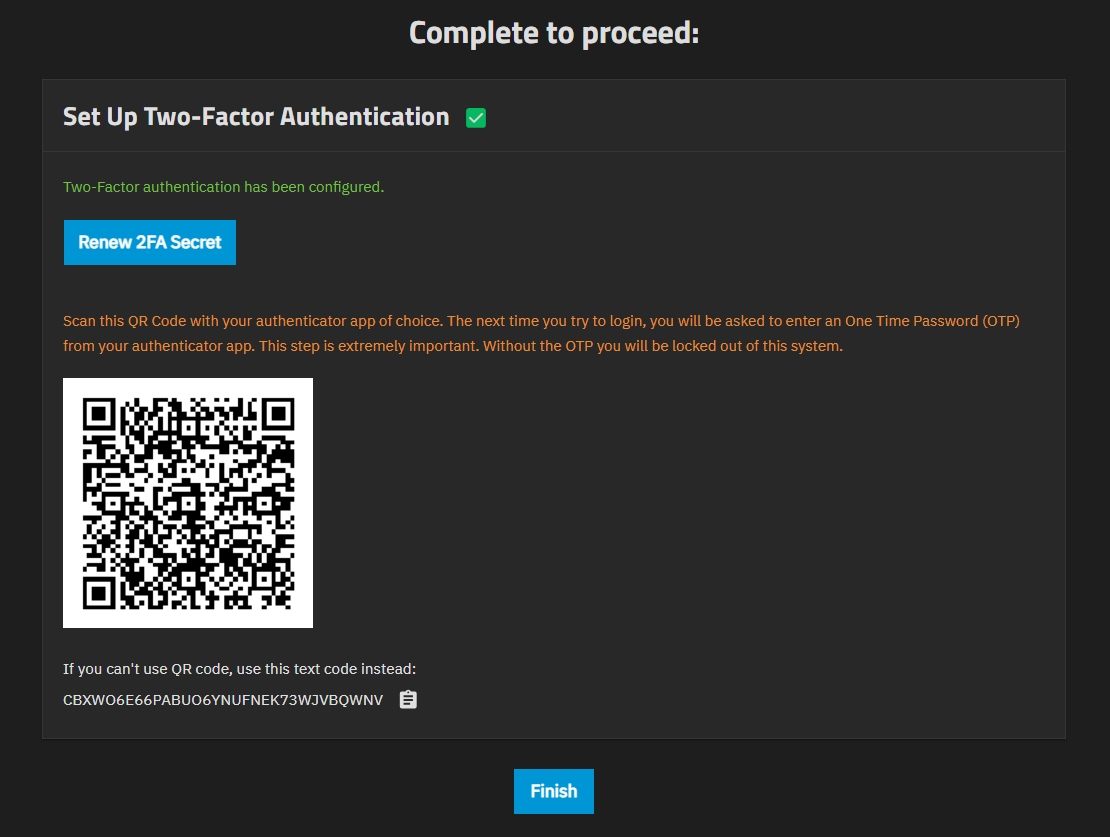
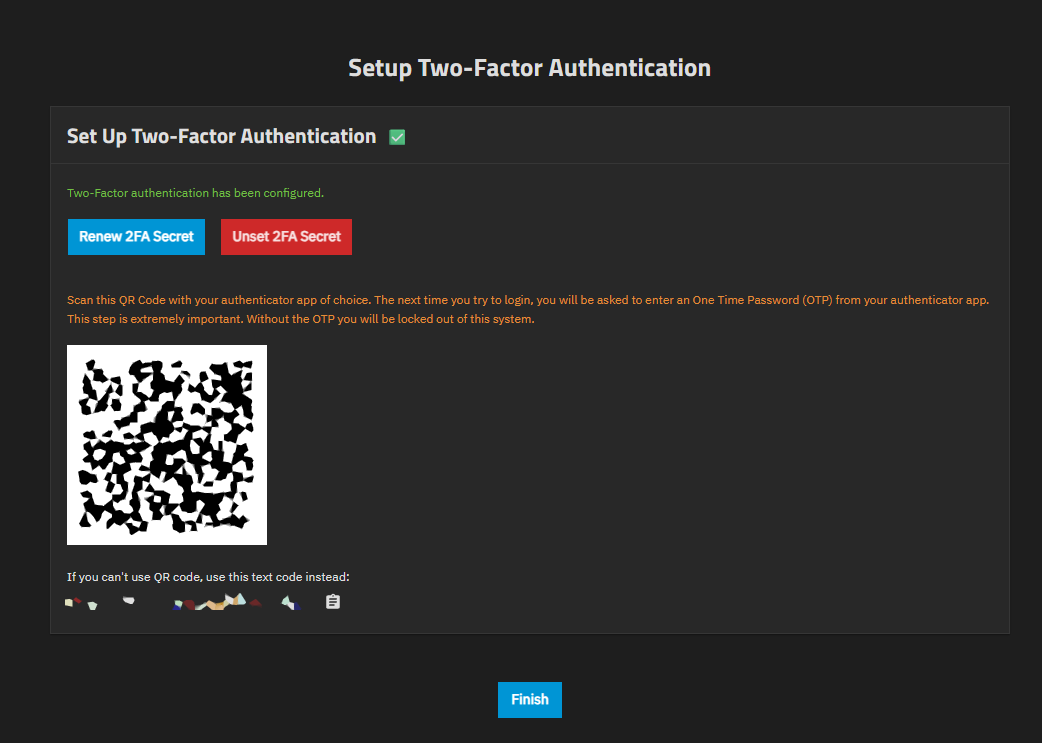
PD-2433 / 25.10 / Pd 2433 update 2 fa content for behavioral changes (#4330)
* Update ManageGlobal2FASCALE.md

* Update AdvancedSettingsScreen.md

* Update 2FAScreenSCALE.md

* Update 2FAScreenEnabled.png

* Update SetUpTwoFactorAuthenticationScreen.png

* Update 2FAScreenSCALE.md

* Delete 2FAQRCodeDialog.png

* Delete 2FAScreenDisabled.png

* Create Clear2FADialog.png

* Create Unset2FASecret.png

* Update UserTwoFactorAuthenticationActionsScreen.png

* Update UsersScreen.md

* Update ManageGlobal2FASCALE.md

* Update ManageUsers.md

* Update ManageGlobal2FASCALE.md

* Update 2FAScreenSCALE.md

* grammar fixes

---------

Changed region(s): [[0.0307, 0.3715, 0.952, 0.8668], [0.0307, 0.031, 0.6756, 0.3405], [0.4607, 0.8977, 0.5528, 0.9906]]

diff --git a/content/SCALETutorials/SystemSettings/Advanced/ManageGlobal2FASCALE.md b/content/SCALETutorials/SystemSettings/Advanced/ManageGlobal2FASCALE.md
@@ -19,9 +19,18 @@ TrueNAS offers global 2FA to ensure that entities cannot use a compromised admin
 {{< include file="/static/includes/AdvancedSettingsWarningSCALE.md" >}}
 
 ## About TrueNAS 2FA
-To use 2FA, you need a mobile device with the current time and date, and an authenticator app installed.
-We recommend Google Authenticator.
-You can use other authenticator applications, but you must confirm the settings, unique keys, and QR codes generated in TrueNAS are compatible with your particular app before permanently activating 2FA.
+
+To use 2FA, you need a mobile device (or desktop application) with the correct time and date, and a TOTP-compatible authenticator app installed.
+
+TrueNAS uses the TOTP (Time-based One-Time Password) standard (RFC 6238), which is compatible with most authenticator apps. Popular options include:
+
+- **Microsoft Authenticator** (iOS, Android)
+- **Google Authenticator** (iOS, Android)
+- **Authy** (iOS, Android, desktop)
+- **Bitwarden** (cross-platform, open source)
+- **1Password** (cross-platform)
+
+Choose an authenticator app based on your platform and preferences. All TOTP-compatible apps work with TrueNAS.
 
 {{< hint type=important >}}
 Two-factor authentication is time-based and requires a correct system time setting.
@@ -34,6 +43,7 @@ We strongly recommend ensuring Network Time Protocol (NTP) is functional before 
 {{< /expand >}}
 
 ### Benefits of 2FA
+
 Unauthorized users cannot log in since they do not have the randomized six-digit code.
 
 Authorized employees can securely access systems from any device or location without jeopardizing sensitive information.
@@ -41,21 +51,23 @@ Authorized employees can securely access systems from any device or location wit
 Internet access on the TrueNAS system is not required to use 2FA.
 
 ### Drawbacks of 2FA
+
 2FA requires an app to generate the 2FA code.
 
 If the 2FA code is not working or users cannot get it, the system is inaccessible through the UI and SSH (if enabled).
-You can bypass or [unlock 2FA](#disabling-or-bypassing-2fa) using the CLI.
+You can bypass or [unlock 2FA](#disabling-global-2fa) using the CLI.
 
-## Enabling 2FA
+## Enabling Global 2FA
+
 {{< hint type=warning >}}
 Set up a second 2FA device as a backup before proceeding.
 {{< /hint >}}
 
-Before you begin, download Google Authenticator to your mobile device.
+Before you begin, install a TOTP-compatible authenticator app on your mobile device or desktop computer. See [About TrueNAS 2FA](#about-truenas-2fa) for recommended options.
 
 1. Go to **System > Advanced Settings**, scroll down to the **Global Two Factor Authentication** widget, and click **Configure**.
 
-   {{< trueimage src="/images/SCALE/SystemSettings/GlobalTwoFactorAuthenticationWidget.png" alt="Global TwoFactor Authentication Widget" id="1 - Global Two Factor Authentication Settings Widget" >}}
+   {{< trueimage src="/images/SCALE/SystemSettings/GlobalTwoFactorAuthenticationWidget.png" alt="Global TwoFactor Authentication Widget" id="Global Two Factor Authentication Settings Widget" >}}
 
 2. Check **Enable Two Factor Authentication Globally**, then click **Save**.
   
@@ -63,60 +75,144 @@ Before you begin, download Google Authenticator to your mobile device.
 
    If you want to enable two-factor authentication for SSH logins, select **Enable Two-Factor Auth for SSH** before you click **Save**.
 
-   TrueNAS takes you to the **Two-Factor Authentication** screen to finish 2FA setup.
+   {{< hint type=tip >}}
+   The **Window** setting extends the validity of authentication codes to include previously generated codes. This can be helpful in high-latency situations where there can be delays between code generation and entry. The default setting works for most environments - only adjust this if users experience authentication issues due to network delays.
+   {{< /hint >}}
 
-   You can also access the two-factor authentication settings for the currently logged-in user from the **Settings** option on the top toolbar.
-   Click the **Settings** icon, then select **Two-Factor Authentication** to open the **User Two-Factor Authentication Actions** screen.
+After enabling Global 2FA, the system prompts users to set up their individual 2FA configuration:
+
+- Accounts that are already configured with individual 2FA are not prompted for 2FA login codes until **Global 2FA** is enabled.
+- When **Global 2FA** is enabled, user accounts without 2FA settings configured are prompted with the **Two-Factor Authentication** screen on their next login to set up 2FA authentication for that account.
+
+See [Setting Up Individual 2FA](#setting-up-individual-2fa) for detailed instructions on configuring 2FA for individual user accounts.
+
+### Disabling Global 2FA
+
+Go to **System > Advanced Settings**, scroll down to the **Global Two Factor Authentication** widget, and click **Config**. Clear the **Enable Two-Factor Authentication Globally** checkbox and click **Save**.
+
+### Reactivating Global 2FA
+
+If you want to enable 2FA again, go to **System > Advanced Settings**, scroll down to the **Global Two Factor Authentication** widget, and click **Config**.
+
+Check **Enable Two Factor Authentication Globally**, then click **Save**.
+To change the system-generated **Secret**, click on the **Settings** icon on the top toolbar and select **Two-Factor Authentication**.
+Click **Renew 2FA Secret**.
+
+## Setting Up Individual 2FA
+
+When administrators enable Global 2FA, users without 2FA configured are prompted to set it up on their next login. Users can also set up 2FA at any time by accessing **Settings > Two-Factor Authentication** from the top toolbar.
+
+{{< hint type=warning >}}
+Set up a second 2FA device as a backup before proceeding.
+{{< /hint >}}
+
+Before you begin, install a TOTP-compatible authenticator app on your mobile device or desktop computer. See [About TrueNAS 2FA](#about-truenas-2fa) for recommended options.
+
+**To set up individual 2FA:**
+
+1. Click the **Settings** icon on the top toolbar, then select **Two-Factor Authentication** to open the **User Two-Factor Authentication Actions** screen.
 
    {{< trueimage src="/images/SCALE/SystemSettings/UserTwoFactorAuthenticationActionsScreen.png" alt="User Two-Factor Authentication Actions Screen" id="User Two-Factor Authentication Actions Screen" >}}
 
-   Click **Configure 2FA Secret** to open the **Set Up Two-Factor Authentication** screen and view the QR code.  The **Set Up Two-Factor Authentication** screen also has the unique key with a copy to clipboard button so you can configure 2FA using a non-camera method if necessary.
+2. Click **Configure 2FA Secret** to open the **Set Up Two-Factor Authentication** screen and view the QR code. The **Set Up Two-Factor Authentication** screen also has the unique key with a copy to clipboard button so you can configure 2FA using a non-camera method if necessary.
 
    {{< hint type="info">}}
    You can configure two-factor authentication and get the QR code for an authenticator app for the logged-in user at any time, but you must configure global two-factor authentication to enable it.
    {{< /hint >}}
-   
-   When using Google Authenticator, set **Interval** to **30** or the authenticator code might not function when logging in.
 
-3. Click **Configure 2FA Secret** to open the **Set Up Two-Factor Authentication** screen where you scan the QR code using Google Authenticator or copy the unique key.
+   Set **Interval** to **30** seconds to match the default setting used by most authenticator apps. Using a non-standard interval can cause authentication codes to fail during login.
+
+3. Scan the QR code using your authenticator app or manually enter the unique key.
    To generate a new QR code click **Renew 2FA Secret**.
 
    {{< trueimage src="/images/SCALE/SystemSettings/SetUpTwoFactorAuthenticationScreen.png" alt="Set Up Two-Factor Authentication Screen" id="Set Up Two-Factor Authentication Screen" >}}
 
-   After scanning the code click **Finish** to close the dialog on the **Two-Factor Authentication** screen.
+4. After scanning the code:
+   - **If prompted during login**: Click **Finish** to close the setup dialog.
+   - **If accessing from the Settings menu**: Your configuration is saved automatically. You can navigate to other screens as needed.
 
-Accounts that are already configured with individual 2FA are not prompted for 2FA login codes until **Global 2FA** is enabled.
-When **Global 2FA** is enabled, user accounts without 2FA settings configured see the **Two-Factor Authentication** screen on their next login to configure and enable 2FA authentication for that account.
+Your 2FA is now configured. You need to enter codes from your authenticator app when logging in.
 
-### Disabling or Bypassing 2FA
-Go to **System > Advanced Settings**, scroll down to the **Global Two Factor Authentication** widget, and click **Config**. Clear the **Enable Two-Factor Authentication Globally** checkbox and click **Save**.
+If you prefer not to set up 2FA at this time, see [Skipping 2FA Setup](#skipping-2fa-setup).
 
-### Reactivating 2FA
-If you want to enable 2FA again, go to **System > Advanced Settings**, scroll down to the **Global Two Factor Authentication** widget, and click **Config**.
+### Skipping 2FA Setup
 
-Check **Enable Two Factor Authentication Globally**, then click **Save**.
-To change the system-generated **Secret**, click on the **Settings** icon on the top toolbar and select **Two-Factor Authentication**. 
-Click **Renew 2FA Secret**.
+When administrators enable **Global 2FA**, users without 2FA configured are prompted to set it up on their next login. However, individual setup is optional and can be skipped. See [Setting Up Individual 2FA](#setting-up-individual-2fa) for the full setup process.
+
+To skip the setup:
+
+1. When the **Two-Factor Authentication** setup screen appears, click **Skip Setup**.
+2. Confirm the decision in the dialog that appears.
+
+{{< hint type=note >}}
+While 2FA significantly enhances security and is strongly recommended, skipping the initial setup does not prevent access to the system. Users can configure 2FA later by accessing **Settings > Two-Factor Authentication** from the top toolbar.
+{{< /hint >}}
+
+The setup prompt appears once per login session. If you skip setup, you are prompted again on your next login until you configure 2FA.
+
+### Removing Individual 2FA Configuration
+
+Users can remove their personal 2FA configuration without disabling global 2FA:
+
+1. Click the **Settings** icon on the top toolbar and select **Two-Factor Authentication**.
+2. Click **Unset 2FA Secret**.
+3. Confirm the removal when prompted.
+
+{{< hint type=warning >}}
+Removing 2FA configuration reduces account security. Only remove 2FA if you plan to reconfigure it with a different authenticator device, or if you no longer have access to your current authenticator.
+{{< /hint >}}
+
+After removing your 2FA configuration:
+
+- If **Global 2FA** is still enabled, you are prompted to set up 2FA again on your next login
+- You can skip this prompt if needed using the **Skip Setup** button
+- 2FA configurations for other users remain unaffected
+
+### Administrator Clearing User 2FA
+
+Administrators can clear 2FA for any user without needing to log in as that user. This is useful when:
+
+- A user has lost access to their authenticator device
+- A user is locked out due to 2FA issues
+- Troubleshooting login problems for users
+
+To clear 2FA for another user:
+
+1. Go to **Credentials > Users**
+2. Select the user whose 2FA needs to be cleared
+3. Click **Clear Two-Factor Authentication** on the **Access** widget
+4. Confirm the action in the dialog
+
+After clearing, the user can log in without 2FA. If Global 2FA is still enabled, they are prompted to reconfigure 2FA on their next login.
+
+For detailed step-by-step instructions, see [Managing Users - Clearing Two-Factor Authentication for a User]({{< ref "ManageUsers#clearing-two-factor-authentication-for-a-user" >}}).
+
+{{< hint type=tip >}}
+The **Clear Two-Factor Authentication** button only appears for users who have 2FA configured. If you do not see the button, the user has not set up 2FA.
+{{< /hint >}}
 
 ## Using 2FA to Log in to TrueNAS
+
 Enabling 2FA changes the login process for both the TrueNAS web interface and SSH logins.
 
 ### Logging In Using the Web Interface
+
 The login screen adds another field for the randomized authenticator code. If this field is not immediately visible, try refreshing the browser.
 
 Enter the code from the mobile device (without the space) in the login window and use the admin username and password.
 
 {{< trueimage src="/images/SCALE/Login/2faSigninSplashScreen.png" alt="2FA Signin Splash Screen" id="2FA Splash Screen" >}}
 
-If you wait too long, a new number code displays in Google Authenticator so you can retry.
+TOTP codes regenerate every 30 seconds (by default). If a code expires while you are entering it, wait for your authenticator app to display a new code and retry.
 
 ### Logging In Using SSH
+
 1. Confirm that you set **Enable Two-Factor Auth for SSH** in **System > Advanced > Global Two Factor Authentication**.
 
 2. Go to **Credentials > Users** and edit the desired user account. Set **SSH password login enabled**, then click **Save**.
 
 3. Go to **System Settings > Services** and click the **SSH** <span class="iconify" data-icon="mdi:play-circle" title="Start Service">Start Service</span> button to start the service. Wait for the service status to show that it is running.
 
-4. Open the Google Authentication app on your mobile device.
+4. Open your authenticator app on your mobile device or desktop.
 
 5. Open a terminal (such as Windows Shell) and SSH into the system using either the host name or IP address, the administrator account user name and password, and the 2FA code.

diff --git a/content/SCALETutorials/Credentials/ManageUsers.md b/content/SCALETutorials/Credentials/ManageUsers.md
@@ -115,3 +115,48 @@ To set the API key to expire, clear the checkmark in **Non-expiring**, then sele
 {{< trueimage src="/images/SCALE/Credentials/AddAPIKeyExpiration.png" alt="Set API Key Expiration" id="Set API Key Expiration" >}}
 
 After setting the date, click **Save**. The **Access** widget for this user shows the API Key icon and the **View API Keys** link.
+
+## Clearing Two-Factor Authentication for a User
+
+Administrators can clear two-factor authentication (2FA) for a user from the **Users** screen. This is typically necessary when:
+
+- A user has lost access to their authenticator device (lost phone, broken device, etc.)
+- A user cannot generate valid 2FA codes due to device time synchronization issues
+- A user needs to switch to a different authenticator app or device
+- Troubleshooting 2FA-related login problems
+
+{{< hint type=important >}}
+Clearing 2FA should only be done when necessary, as it temporarily reduces account security. When Global 2FA is enabled, users are prompted to reconfigure 2FA on their next login.
+{{< /hint >}}
+
+To clear 2FA for a user:
+
+1. Go to **Credentials > Users**.
+
+2. Click on the user row to select the user whose 2FA needs to be cleared.
+
+3. On the **Access** widget, click **Clear Two-Factor Authentication**.
+
+   {{< trueimage src="/images/SCALE/Credentials/UsersScreenAccessWidgetWithAPIKey.png" alt="Access Widget with Clear 2FA Button" id="Access Widget with Clear 2FA Button" >}}
+
+   {{< hint type=note >}}
+   The **Clear Two-Factor Authentication** button only appears for users who have 2FA configured. Users without 2FA configured do not show this button.
+   {{< /hint >}}
+
+4. A confirmation dialog appears asking if you want to clear two-factor authentication settings for this user.
+
+   {{< trueimage src="/images/SCALE/Credentials/Clear2FADialog.png" alt="Clear Two-Factor Authentication Dialog" id="Clear Two-Factor Authentication Dialog" >}}
+
+5. Click **Clear** to confirm, or **Cancel** to abort the operation.
+
+After clearing, the user can log in without 2FA codes. If Global 2FA is enabled on the system, the user is prompted to set up 2FA again on their next login.
+
+### User Self-Clearing vs Admin Clearing
+
+Users can also remove their own 2FA configuration using the **Settings** menu:
+
+- User self-clearing: The logged-in user accesses **Settings > Two-Factor Authentication** and clicks **Unset 2FA Secret**. This allows users to manage their own 2FA settings.
+
+- Admin clearing: Administrators use **Credentials > Users > Access Widget > Clear Two-Factor Authentication** to clear 2FA for another user. This is specifically for helping users who cannot access their accounts.
+
+For more information on 2FA configuration and management, see [Managing Global 2FA]({{< ref "ManageGlobal2FASCALE" >}}).

diff --git a/content/SCALEUIReference/TopToolbar/Settings/2FAScreenSCALE.md b/content/SCALEUIReference/TopToolbar/Settings/2FAScreenSCALE.md
@@ -11,12 +11,10 @@ tags:
 Two-factor authentication is time-based and requires a correct system time setting.
 {{< /hint >}}
 
-The **Two-Factor Authentication** screen, accessed from the **Settings** menu on the top toolbar, allows managing user-level two-factor authentication (2FA) credentials. It shows a different message if 2FA enabled than when not configured or disabled.
+The **Two-Factor Authentication** screen, accessed from the **Settings** menu on the top toolbar, allows managing user-level two-factor authentication (2FA) credentials. This option only appears in the Settings menu when an administrator has enabled Global 2FA.
 
-To configure 2FA settings go to the [**Advanced Settings**]({{< ref "AdvancedSettingsScreen" >}}) screen.
+Administrators can enable Global 2FA on the [**Advanced Settings**]({{< ref "AdvancedSettingsScreen" >}}) screen.
 For more information, see the [Managing Global 2FA]({{< ref "ManageGlobal2FASCALE" >}}) tutorial.
-
-{{< trueimage src="/images/SCALE/Credentials/2FAScreenDisabled.png" alt="2FAScreenDisabled" id="2FA Screen with Disabled Message" >}}
 
 {{< trueimage src="/images/SCALE/SystemSettings/2FAScreenEnabled.png" alt="2FAScreenEnabled" id="2FA Screen with Enabled Message" >}}
 
@@ -26,6 +24,10 @@ For more information, see the [Managing Global 2FA]({{< ref "ManageGlobal2FASCAL
 
 {{< trueimage src="/images/SCALE/Credentials/2FARenewSecretDialog.png" alt="2FA Renew Secret" id="Renew Secret Dialog" >}}
 
-**Show QR** opens a QR code dialog. Scan with an authenticator app on your mobile device. We recommend Google Authenticator.
+**Unset 2FA Secret** removes the existing 2FA setup of the user. A confirmation dialog appears before removing the configuration.
 
-{{< trueimage src="/images/SCALE/Credentials/2FAQRCodeDialog.png" alt="2FA QR Code" id="2FA QR Code Dialog" >}}
+{{< trueimage src="/images/SCALE/Credentials/Unset2FASecret.png" alt="Unset Two-Factor Authentication Dialog" id="Unset Two-Factor Authentication Dialog" >}}
+
+{{< hint type=warning >}}
+Removing your 2FA configuration reduces account security. If global 2FA is enabled, you are prompted to set up 2FA again on your next login, though you can skip this prompt if needed.
+{{< /hint >}}

diff --git a/content/SCALEUIReference/SystemSettings/AdvancedSettingsScreen.md b/content/SCALEUIReference/SystemSettings/AdvancedSettingsScreen.md
@@ -468,8 +468,8 @@ The **Global Two Factor Authentication** widget shows the status of global two-f
 {{< truetable >}}
 | Name | Description |
 |------|-------------|
-| **Enable Two-Factor Authentication Globally** | Select to enable 2FA for the system. |
-| **Window** | Enter the number of valid passwords. Extends password validity beyond the current to the previous password(s) based on the number entered. For example, setting this to **1** means the current and previous passwords are valid. If the previous password is *a* and the current password is *b*, then both passwords are valid. If set to **2**, the current password (*c* ) and the two previous passwords (*a* and *b*) are valid. Setting this to **3** works the same. Extending the window is useful in high-latency situations. |
+| **Enable Two-Factor Authentication Globally** | Select to prompt users to set up 2FA for the system. When enabled, users without 2FA configured are prompted to set it up on their next login. Users can skip the initial setup if needed. |
+| **Window** | Enter the number of valid authentication codes (tolerance window). Extends code validity beyond the current to the previous code(s) based on the number entered. For example, setting this to **1** means the current and previous codes are valid. If the previous code is *a* and the current code is *b*, then both codes are valid. If set to **2**, the current code (*c*) and the two previous codes (*a* and *b*) are valid. Setting this to **3** works the same. Extending the window is useful in high-latency situations. |
 | **Enable Two-Factor Auth for SSH** | Select to enable 2FA for system SSH access. Leave this disabled until you complete a successful test of 2FA with the UI. |
 {{< /truetable >}}
 {{< /expand >}}

diff --git a/content/SCALEUIReference/Credentials/UsersScreen.md b/content/SCALEUIReference/Credentials/UsersScreen.md
@@ -139,6 +139,16 @@ When the user has an API key, **View API Keys** shows and opens the **user API K
 **Lock User** opens a confirmation dialog before locking the user. A locked user is prevented from logging in or using password-based services while locked.
 This button toggles to **Unlock User**, which shows a confirmation dialog before unlocking the user.
 
+**Clear Two-Factor Authentication** shows when the user has 2FA configured. Opens a confirmation dialog before clearing the two-factor authentication settings for the user.
+This administrative function helps users who have lost access to their authenticator device or are experiencing 2FA-related login issues.
+When cleared, the user can log in without 2FA. If Global 2FA is enabled, the user is prompted to reconfigure 2FA on their next login.
+
+{{< trueimage src="/images/SCALE/Credentials/Clear2FADialog.png" alt="Clear Two-Factor Authentication Dialog" id="Clear Two-Factor Authentication Dialog" >}}
+
+{{< hint type=important >}}
+Clearing 2FA for a user should only be done when necessary, such as when the user has lost access to their authenticator device. This action temporarily reduces account security until 2FA is reconfigured.
+{{< /hint >}}
+
 ## Add or Edit User Screens
 
 The **Add User** and **Edit User** configuration screens show the same setting options, but a few options are not editable.
